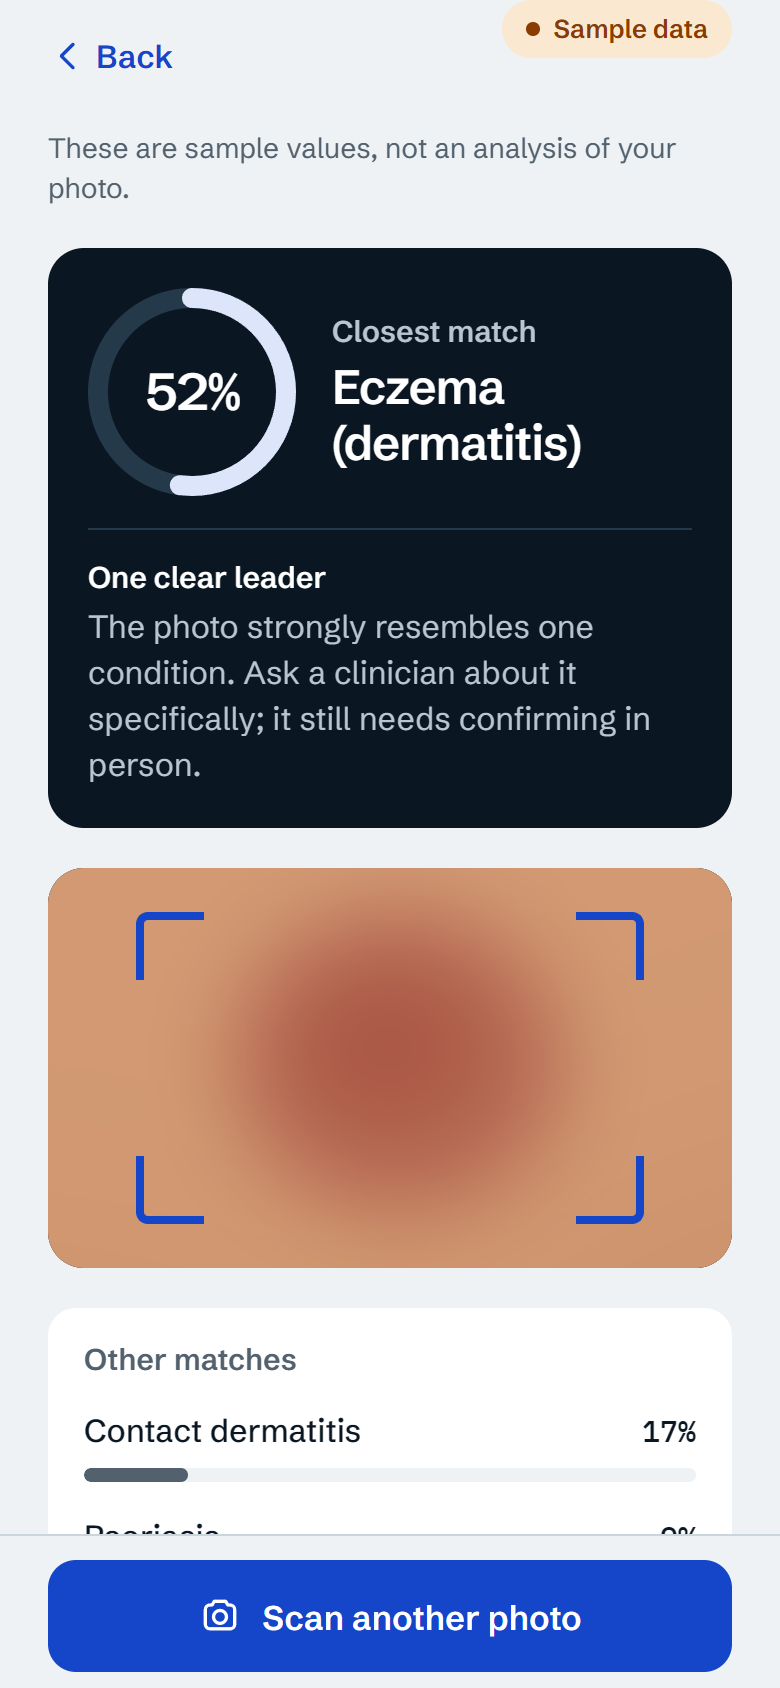
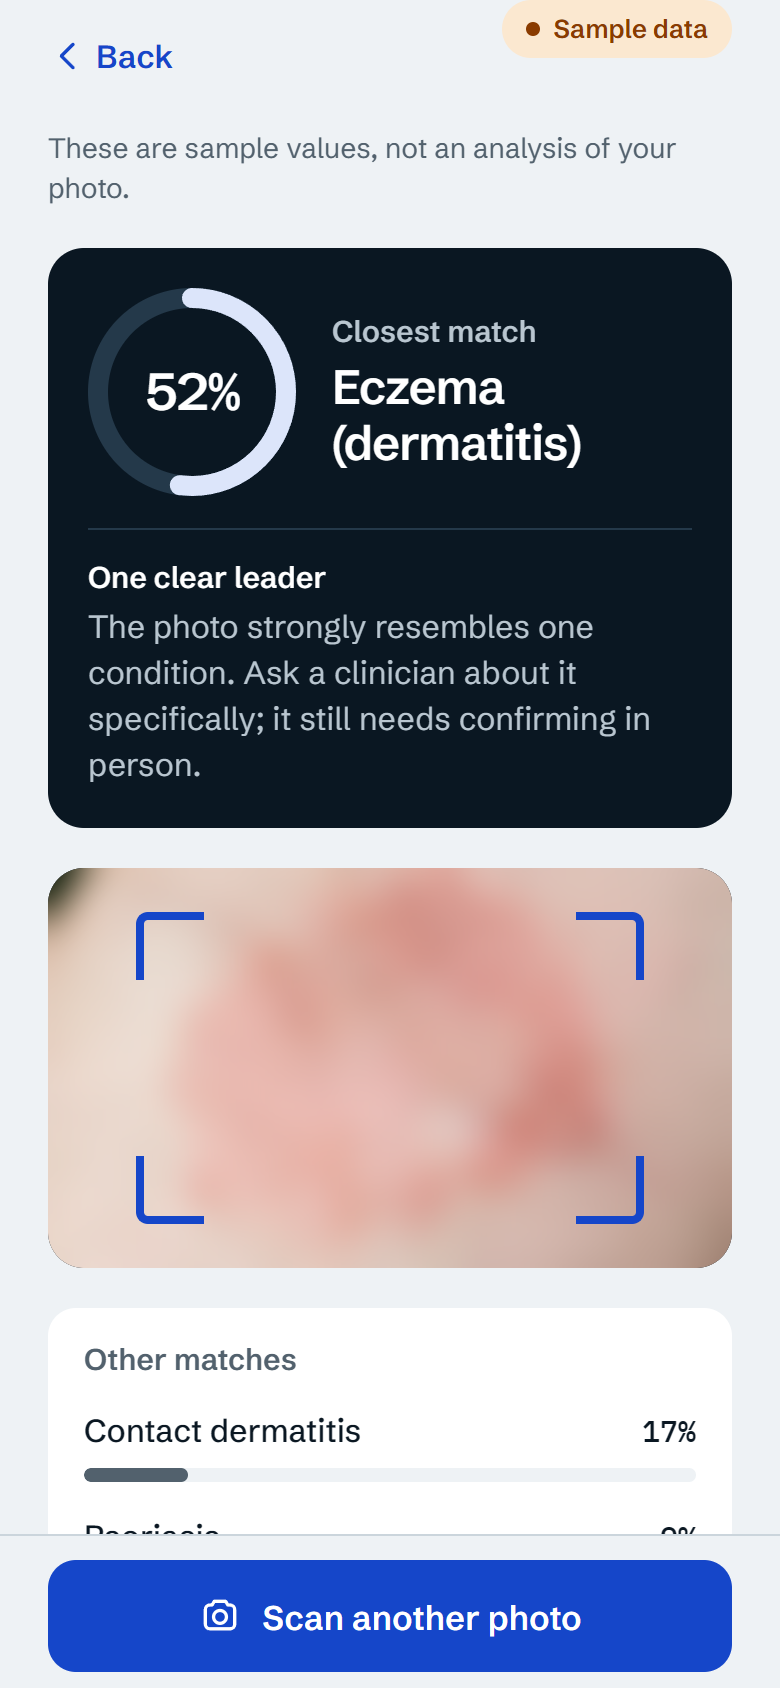
Use a blurred eczema photo on the result screen and add the title card
- assets/img/app/results.png: re-taken with a heavily blurred eczema photo
  in the scan frame instead of the drawn stand-in (Home, How it works)
- assets/img/card/: a 3:2 title card for other sites (two app screens on a
  plain background), with its HTML source
- README notes the new result photo

Changed region(s): [[0.0615, 0.4929, 0.9538, 0.7701]]

diff --git a/assets/img/card/card.html b/assets/img/card/card.html
@@ -1,0 +1,19 @@
+<!doctype html>
+<html><head><meta charset="utf-8">
+<link href="https://fonts.googleapis.com/css2?family=Schibsted+Grotesk:wght@500;600&display=swap" rel="stylesheet">
+<style>
+  *{box-sizing:border-box;margin:0}
+  html,body{width:1200px;height:800px;overflow:hidden}
+  body{position:relative;background:radial-gradient(120% 90% at 50% 18%,#F7F9FB 0%,#EEF2F5 55%,#E3E9EE 100%);font-family:"Schibsted Grotesk","Segoe UI",sans-serif;color:#0A1722}
+  .ring{position:absolute;left:50%;top:50%;width:760px;height:760px;translate:-50% -47%;opacity:.16}
+  .phones{position:absolute;left:50%;top:40px;display:flex;align-items:flex-start;translate:-50% 0}
+  .device{width:var(--w);padding:calc(var(--w)*.028);border-radius:calc(var(--w)*.15);background:#0A1722;box-shadow:inset 0 0 0 2px #2D3F4D,0 50px 80px -36px rgba(10,23,34,.55),0 14px 28px -14px rgba(10,23,34,.3)}
+  .device img{display:block;width:100%;border-radius:calc(var(--w)*.125)}
+  .back{--w:252px}
+  .front{--w:274px;margin:58px 0 0 -50px}
+</style></head><body>
+<div class="phones">
+  <div class="device back"><img src="../app/home.png"></div>
+  <div class="device front"><img src="../app/results.png"></div>
+</div>
+</body></html>

diff --git a/README.md b/README.md
@@ -66,7 +66,7 @@ These are plain images, linked straight from the HTML rather than through a plac
 
 | File | Used on |
 | --- | --- |
-| `assets/img/app/home.png`, `results.png` | Home and How it works. Screenshots of the app at phone size (390 x 844 at 2x). The result is a saved scan with the built-in sample values and a drawn stand-in photo, so it is labelled "Sample data" |
+| `assets/img/app/home.png`, `results.png` | Home and How it works. Screenshots of the app at phone size (390 x 844 at 2x). The result is a saved scan with the built-in sample values and a heavily blurred eczema photo, so it is labelled "Sample data" |
 | `assets/img/model/training-terminal.png` | How it works, `#model`. The first full training run (13 October 2026); its test numbers match `ml/runs/epivascan-skin/model/README.md` |
 | `assets/img/validation/session-N-NN.jpg`, `-sm.jpg` | Validation (full size in the viewer, `-sm` as thumbnails) and Home. To change which photos are drawn, move links between the visible grid and the hidden list under it in `validation.html` |
 
